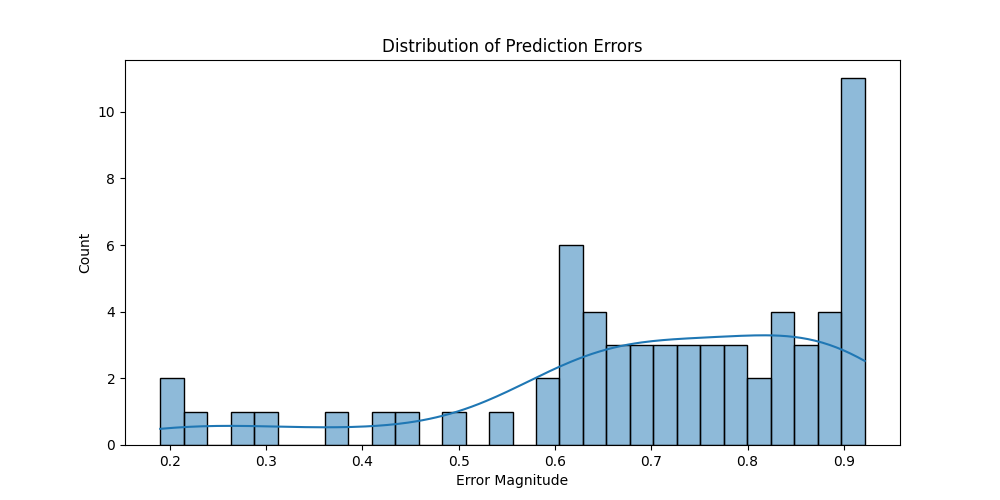
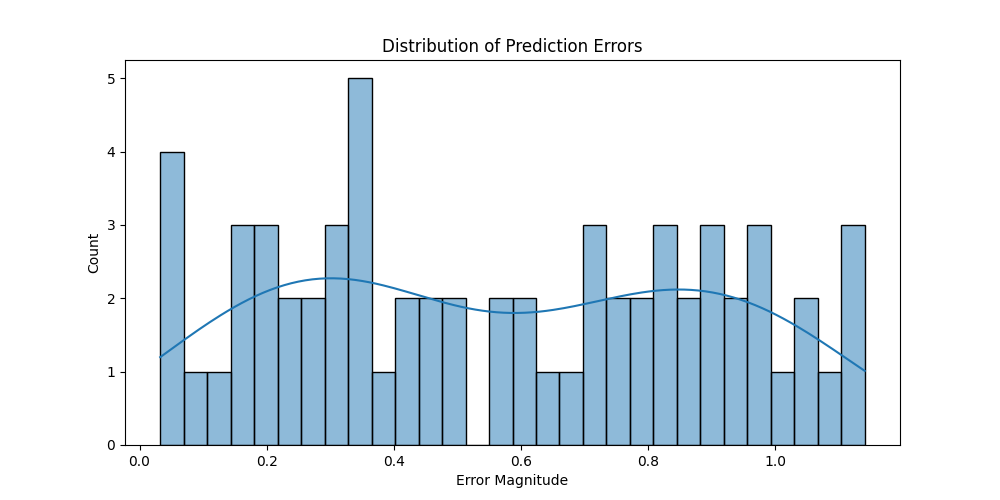
Update CNO evaluation

diff --git a/scripts/eval-cno.py b/scripts/eval-cno.py
@@ -57,7 +57,7 @@ logger.info(f"Using device: {device}")
 # Load the dataset
 dataset = AcousticDataset(data_dir=pathlib.Path(args.dataset_path), depth=64)
 depth = dataset.depth
-dataset = Subset(dataset, range(0, len(dataset), 1))  # Subsample for faster evaluation
+dataset = Subset(dataset, range(0, len(dataset), 32))  # Subsample for faster evaluation
 logger.info(f"Dataset loaded with {len(dataset)} samples.")
 
 # Load the CNO model
@@ -118,7 +118,7 @@ print("Creating prediction animation...")
 fig, (ax1, ax2) = plt.subplots(1, 2, figsize=(12, 5))
 fig.suptitle("Pressure Field Evolution")
 
-pred_data = pred[0]
+pred_data = pred[-1]
 target_data = p
 
 vmin = min(pred_data.min(), target_data.min())
@@ -145,33 +145,7 @@ anim.save(output_dir / "pressure_evolution.gif", writer=writer)
 plt.close()
 print("Animation saved")
 
-error_evolution = np.abs(pred_data - target_data).mean(axis=(1, 2))
-
-print("Plotting error evolution...")
-# Plot error evolution
-plt.figure(figsize=(10, 5))
-plt.plot(error_evolution, "b-", label="Mean Absolute Error")
-plt.xlabel("Time Step")
-plt.ylabel("Error")
-plt.title("Error Evolution Over Time")
-plt.legend()
-plt.grid(True)
-plt.savefig(output_dir / "error_evolution.png")
-plt.close()
-print("Error evolution plot saved")
-
-print("Plotting error distribution...")
-# Plot error distribution
-plt.figure(figsize=(10, 5))
-sns.histplot(error_evolution, bins=30, kde=True)
-plt.xlabel("Error Magnitude")
-plt.ylabel("Count")
-plt.title("Distribution of Prediction Errors")
-plt.savefig(output_dir / "error_distribution.png")
-plt.close()
-print("Error distribution plot saved")
-
-print("\n5. Plotting relative error map...")
+print("5. Plotting relative error map...")
 # Add relative error visualization
 fig, ax = plt.subplots(figsize=(10, 5))
 rel_error_map = np.abs(pred_data - target_data) / (np.abs(target_data) + 1e-8)
@@ -196,6 +170,9 @@ total_mse_loss = 0.0
 total_rel_l2_error = 0.0
 total_max_error = 0.0
 num_samples = 0
+
+
+error_evolution = np.zeros(64)
 
 with torch.no_grad():
     for i in tqdm(range(len(dataset)), desc="Evaluating", unit="sample"):
@@ -222,6 +199,35 @@ with torch.no_grad():
         total_rel_l2_error += rel_l2.item() * x.size(0)
         total_max_error += max_error.item() * x.size(0)
         num_samples += 1
+        # Store error evolution
+        error_evolution += torch.abs(pred - y).mean(dim=(1, 2)).cpu().numpy()[0]
+
+# Normalize error evolution
+error_evolution /= num_samples
+
+print("Plotting error evolution...")
+# Plot error evolution
+plt.figure(figsize=(10, 5))
+plt.plot(error_evolution, "b-", label="Mean Absolute Error")
+plt.xlabel("Time Step")
+plt.ylabel("Error")
+plt.title("CNO Error Evolution Over Time")
+plt.legend()
+plt.grid(True)
+plt.savefig(output_dir / "error_evolution.png")
+plt.close()
+print("Error evolution plot saved")
+
+print("Plotting error distribution...")
+# Plot error distribution
+plt.figure(figsize=(10, 5))
+sns.histplot(error_evolution, bins=30, kde=True)
+plt.xlabel("Error Magnitude")
+plt.ylabel("Count")
+plt.title("Distribution of Prediction Errors")
+plt.savefig(output_dir / "error_distribution.png")
+plt.close()
+print("Error distribution plot saved")
 
 # Calculate average metrics
 avg_l2_loss = total_l2_loss / num_samples
